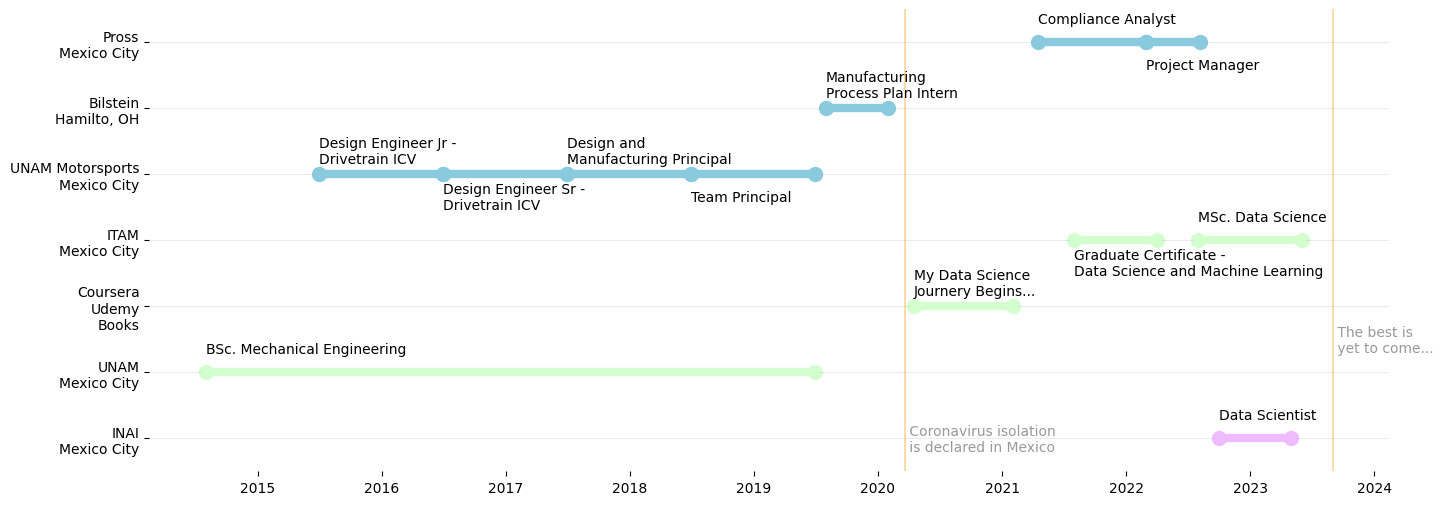
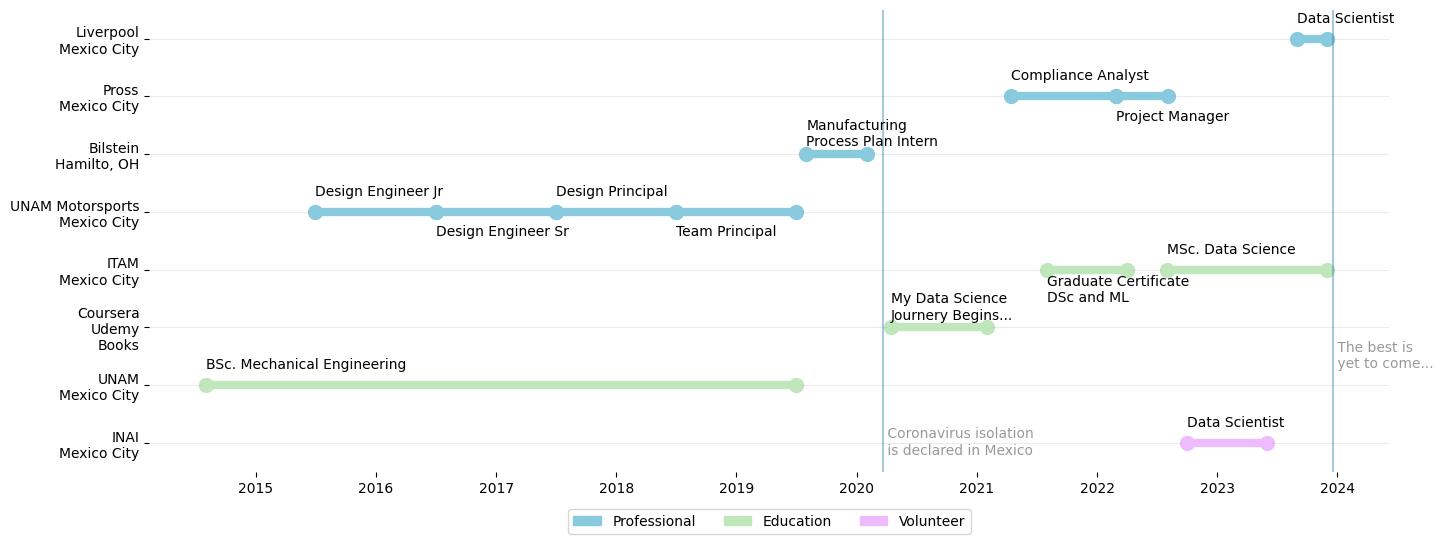
Update timeline

diff --git a/src/_generate_charts.py b/src/_generate_charts.py
@@ -1,6 +1,6 @@
-import json
 import pandas as pd
 import matplotlib.pyplot as plt
+import matplotlib.patches as mpatches
 
 from matplotlib import rcParams
 from settings import Settings
@@ -22,28 +22,29 @@ today = pd.Timestamp.today().date()
 # ============================ Timeline =================================
 # =======================================================================
 
-# Open timeline asset file
-with open(settings.config['path']['timeline'], 'r') as file:
-    df_ = json.load(file)
-
 # Data preprocess for timeline visualization
 df_ = (
-    pd.DataFrame(df_)
+    pd.read_csv(settings.config['path']['timeline'])
     .assign(
-        inicio = lambda df_: pd.to_datetime(df_.inicio, format='%d/%m/%Y')
-        ,fin = lambda df_: pd.to_datetime(df_.fin, format='%d/%m/%Y')
-        ,clase = lambda df_: df_.clase.astype(int)
+        nombre = lambda _df: _df.nombre.str.replace('\\n','\n')
+        ,empresa = lambda _df: _df.empresa.str.replace('\\n','\n')
+        ,inicio = lambda df_: pd.to_datetime(df_.inicio, format='%Y-%m-%d')
+        ,fin = lambda df_: pd.to_datetime(df_.fin, format='%Y-%m-%d')
+        ,ypos = lambda df_: df_.ypos.astype(int)
         ,delta = lambda df_: df_.delta.astype(int)))
 
 # Figure specs
 fig, ax = plt.subplots(figsize=(16,6))
-ymin, ymax = df_.clase.min() - 0.5, df_.clase.max() + 0.5
+ymin, ymax = df_.ypos.min() - 0.5, df_.ypos.max() + 0.5
 covid_x = pd.to_datetime('20/03/2020', format='%d/%m/%Y')
+professional = mpatches.Patch(color='#8acade', label='Professional')
+education = mpatches.Patch(color='#c0e6bc', label='Education')
+volunteer = mpatches.Patch(color='#eebbff', label='Volunteer')
 
 # Covid pandemics reference line
 ax.axvline(
     x=covid_x
-    ,color=settings.config['images']['colors']['orange']
+    #,color=settings.config['images']['colors']['orange']
     ,alpha=0.4)
 
 # Covid pandemics annotation
@@ -56,7 +57,7 @@ ax.text(
 # Today reference line
 ax.axvline(
     x=today
-    ,color=settings.config['images']['colors']['orange']
+    #,color=settings.config['images']['colors']['orange']
     ,alpha=0.4)
 
 # Today annotation
@@ -70,27 +71,32 @@ for idx in range(df_.shape[0]):
     # Gráficas
     ax.plot(
         [df_.inicio[idx], df_.fin[idx]]
-        ,[df_.clase[idx], df_.clase[idx]]
+        ,[df_.ypos[idx], df_.ypos[idx]]
         ,linewidth=6
         ,color=df_.color[idx])
     
     ax.scatter(
         x=[df_.inicio[idx], df_.fin[idx]]
-        ,y=[df_.clase[idx], df_.clase[idx]]
+        ,y=[df_.ypos[idx], df_.ypos[idx]]
         ,color=df_.color[idx]
         ,s=100)
     
     ax.text(
         x=df_.inicio[idx]
-        ,y=df_.clase[idx] + 0.35*df_.delta[idx]
+        ,y=df_.ypos[idx] + 0.35*df_.delta[idx]
         ,s=df_.nombre[idx]
         ,va='center')
 
 # Figure annotations and styling
 ax.set_ylim(bottom=ymin ,top=ymax)
 ax.set_yticks(
-    ticks=df_.clase.unique()
-    ,labels=df_.empresa.unique())
+    ticks=df_.ypos.unique()
+    ,labels=df_.empresa.unique().astype(str))
+
+ax.legend(
+    loc='lower center'
+    ,bbox_to_anchor=(0.5,-0.15)
+    ,ncol=3, fancybox=True, handles=[professional, education, volunteer])
 
 ax.grid(axis='y', alpha=0.25)
 ax.spines['top'].set_visible(False)
